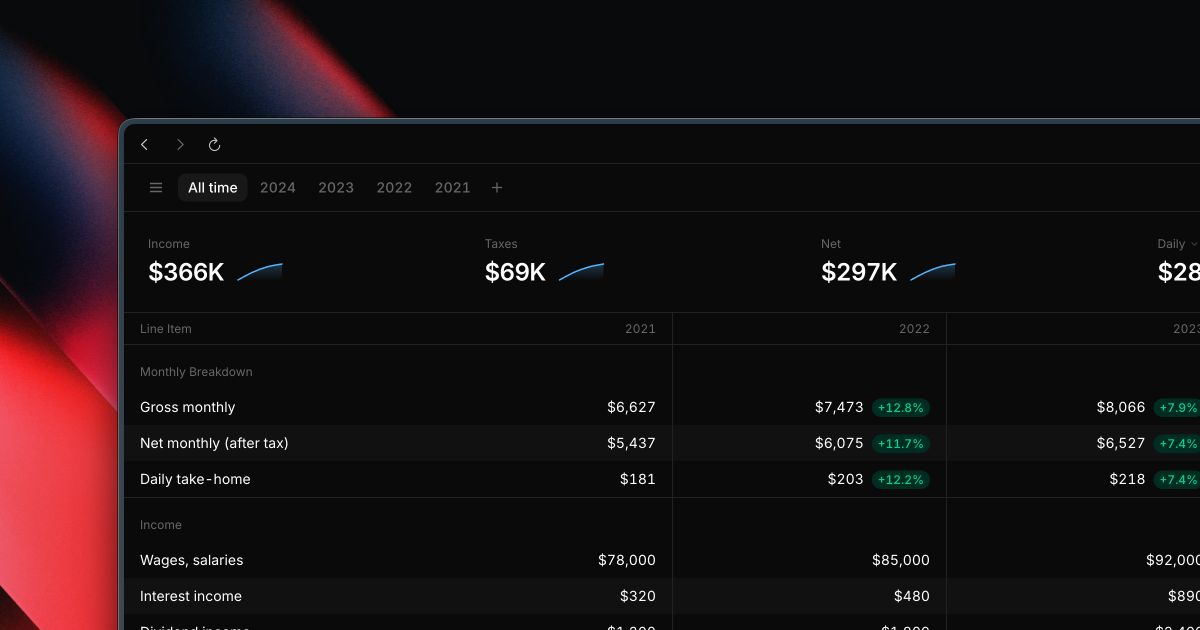
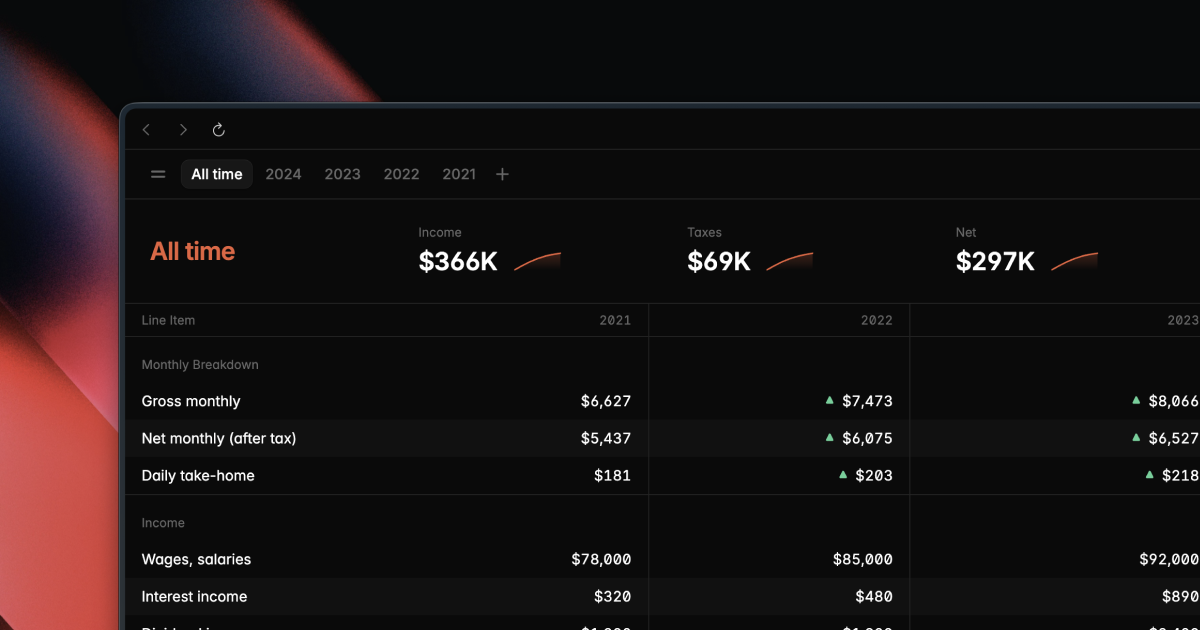
Improve demo mode UX and reset onboarding when last year is deleted
Replace the small 'Get started' pill with a more prominent demo island card. Prevent onboarding from auto-showing in demo mode so users can explore sample data first. Reset to sample data and reopen onboarding when the last year is deleted. Allow API key to be passed from form data with fallback to environment config.

diff --git a/src/App.tsx b/src/App.tsx
@@ -1,5 +1,10 @@
 import { useState, useEffect, useCallback, useRef } from "react";
-import type { TaxReturn, PendingUpload, FileProgress, FileWithId } from "./lib/schema";
+import type {
+  TaxReturn,
+  PendingUpload,
+  FileProgress,
+  FileWithId,
+} from "./lib/schema";
 import type { NavItem } from "./lib/types";
 import { sampleReturns } from "./data/sampleData";
 import { MainPanel } from "./components/MainPanel";
@@ -547,9 +552,23 @@ export function App() {
 
     await fetch(`/api/returns/${year}`, { method: "DELETE" });
 
+    // Check if this is the last year before updating state
+    const isLastYear = Object.keys(state.returns).length === 1;
+
     setState((s) => {
       const newReturns = { ...s.returns };
       delete newReturns[year];
+
+      if (isLastYear) {
+        // Last year deleted - reset to sample data state
+        return {
+          ...s,
+          returns: sampleReturns,
+          selectedYear: "summary",
+          hasUserData: false,
+        };
+      }
+
       const newSelection =
         s.selectedYear === year
           ? getDefaultSelection(newReturns)
@@ -560,6 +579,11 @@ export function App() {
         selectedYear: newSelection,
       };
     });
+
+    // Re-open onboarding if we just deleted the last year
+    if (isLastYear) {
+      setOpenModal("onboarding");
+    }
   }
 
   if (state.isLoading) {
@@ -622,9 +646,7 @@ export function App() {
       );
     }
     if (state.selectedYear === "summary") {
-      return (
-        <MainPanel view="summary" {...commonProps} />
-      );
+      return <MainPanel view="summary" {...commonProps} />;
     }
     const receiptData = getReceiptData();
     if (receiptData) {
@@ -637,9 +659,7 @@ export function App() {
         />
       );
     }
-    return (
-      <MainPanel view="summary" {...commonProps} />
-    );
+    return <MainPanel view="summary" {...commonProps} />;
   }
 
   // Find pending upload if selected
@@ -651,10 +671,14 @@ export function App() {
 
   // Show onboarding dialog for new users (unless dismissed) or when manually opened
   // Processing takes precedence - keep dialog open while processing
+  // In demo mode, don't auto-show - let users browse sample data first
   const showOnboarding =
     isOnboardingProcessing ||
     openModal === "onboarding" ||
-    (!onboardingDismissed && !state.hasStoredKey && !state.hasUserData);
+    (!effectiveIsDemo &&
+      !onboardingDismissed &&
+      !state.hasStoredKey &&
+      !state.hasUserData);
 
   // Skip open animation only on first automatic show (not manual reopen)
   const skipOnboardingAnimation =
@@ -828,13 +852,25 @@ export function App() {
         onReset={handleClearData}
       />
 
-      {/* Get started pill - show in demo mode when onboarding was dismissed */}
-      {effectiveIsDemo && onboardingDismissed && !showOnboarding && (
-        <div className="fixed bottom-6 left-1/2 -translate-x-1/2 z-50 animate-fade-in">
-          <Button variant="pill" onClick={() => setOpenModal("onboarding")}>
-            Get started
-          </Button>
-        </div>
+      {/* Demo island - show in demo mode when dialog is closed */}
+      {effectiveIsDemo && !showOnboarding && (
+        <>
+          <div className="bg-linear-to-t pointer-events-none z-90 from-white dark:from-black to-transparent fixed bottom-0 inset-x-0 md:h-128 h-96" />
+          <button
+            onClick={() => setOpenModal("onboarding")}
+            className="cursor-pointer z-100 fixed bottom-8 left-8 md:max-w-lg right-8 p-4 md:p-6 rounded-2xl bg-black dark:bg-neutral-800 text-white dark:shadow-contrast shadow-md ring-[0.5px] ring-black/10 flex flex-col gap-3"
+          >
+            <div className="text-lg mb-2 flex flex-col items-start justify-start text-left">
+              <span className="font-semibold text-(--color-brand)">Tax UI</span>
+              <span className="font-medium">
+                Visualize and chat with your tax returns
+              </span>
+            </div>
+            <span className="bg-(--color-brand) text-white self-start text-neutral-900 text-base font-semibold px-3 py-1.5 rounded-lg">
+              Get started
+            </span>
+          </button>
+        </>
       )}
 
       {state.isDev && (

diff --git a/src/components/DemoDialog.tsx b/src/components/DemoDialog.tsx
@@ -1,5 +1,4 @@
 import { Dialog } from "./Dialog";
-import { Button } from "./Button";
 import { FAQSection } from "./FAQSection";
 
 interface Props {
@@ -21,43 +20,37 @@ export function DemoDialog({ isOpen, onClose, skipOpenAnimation }: Props) {
       skipOpenAnimation={skipOpenAnimation}
       footer={<FAQSection />}
     >
-      <div>
-        <div className="mb-6 space-y-4">
-          <div>
-            <h3 className="text-sm font-medium mb-2">Run locally</h3>
-            <div className="bg-(--color-bg-muted) rounded-lg p-3 font-mono text-sm">
-              <div className="text-(--color-text-muted)"># Clone and run</div>
-              <div>git clone https://github.com/brianlovin/tax-ui</div>
-              <div>cd tax-ui</div>
-              <div>bun install</div>
-              <div>bun run dev</div>
-            </div>
+      <div className="space-y-4">
+        <div>
+          <h3 className="text-sm font-medium mb-2">Run locally</h3>
+          <div className="bg-(--color-bg-muted) rounded-lg p-3 font-mono text-sm">
+            <div className="text-(--color-text-muted)"># Clone and run</div>
+            <div>git clone https://github.com/brianlovin/tax-ui</div>
+            <div>cd tax-ui</div>
+            <div>bun install</div>
+            <div>bun run dev</div>
           </div>
-          <p className="text-xs text-(--color-text-muted)">
-            Requires{" "}
-            <a
-              href="https://bun.sh"
-              target="_blank"
-              rel="noopener noreferrer"
-              className="underline hover:text-(--color-text)"
-            >
-              Bun
-            </a>{" "}
-            and an{" "}
-            <a
-              href="https://console.anthropic.com/settings/keys"
-              target="_blank"
-              rel="noopener noreferrer"
-              className="underline hover:text-(--color-text)"
-            >
-              Anthropic API key
-            </a>
-          </p>
         </div>
-
-        <Button onClick={onClose} variant="secondary" className="w-full">
-          Browse demo
-        </Button>
+        <p className="text-xs text-(--color-text-muted)">
+          Requires{" "}
+          <a
+            href="https://bun.sh"
+            target="_blank"
+            rel="noopener noreferrer"
+            className="underline hover:text-(--color-text)"
+          >
+            Bun
+          </a>{" "}
+          and an{" "}
+          <a
+            href="https://console.anthropic.com/settings/keys"
+            target="_blank"
+            rel="noopener noreferrer"
+            className="underline hover:text-(--color-text)"
+          >
+            Anthropic API key
+          </a>
+        </p>
       </div>
     </Dialog>
   );

diff --git a/src/components/FAQSection.tsx b/src/components/FAQSection.tsx
@@ -57,7 +57,7 @@ export function FAQSection() {
   }
 
   return (
-    <div className="shrink-0 border-t border-(--color-border) p-4 px-5">
+    <div className="shrink-0 border-t border-(--color-border) p-4 px-3">
       <Accordion.Root
         className="space-y-px"
         value={openItems}
@@ -97,8 +97,8 @@ export function FAQSection() {
               <div className="text-sm text-(--color-text-muted) space-y-2 px-3 pt-1 pb-3">
                 <p>
                   Your tax data is processed locally and sent directly to
-                  Anthropic's API using your own API key. No data is stored on any
-                  third-party servers.
+                  Anthropic's API using your own API key. No data is stored on
+                  any third-party servers.
                 </p>
                 <p>
                   Anthropic's commercial terms prohibit training models on API
@@ -150,8 +150,8 @@ export function FAQSection() {
             >
               <div className="text-sm text-(--color-text-muted) space-y-3 px-3 pt-1 pb-2">
                 <p>
-                  Tax UI is open source. You can review the code yourself, or ask an
-                  AI to audit it for you.
+                  Tax UI is open source. You can review the code yourself, or
+                  ask an AI to audit it for you.
                 </p>
                 <Button
                   onClick={handleCopyPrompt}

diff --git a/src/index.ts b/src/index.ts
@@ -102,7 +102,8 @@ const server = serve({
           return Response.json({ error: "No PDF file provided" }, { status: 400 });
         }
 
-        const apiKey = getApiKey();
+        const formApiKey = formData.get("apiKey") as string | null;
+        const apiKey = formApiKey || getApiKey();
         if (!apiKey) {
           return Response.json({ error: "No API key configured" }, { status: 400 });
         }
